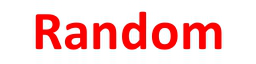
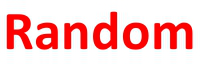
still working on good final design

Changed region(s): [[0.03, 0.1562, 0.99, 0.7812]]

diff --git a/style.css b/style.css
@@ -44,6 +44,8 @@ body
 .logo
 {
 	margin-bottom: -0.5%;
+	margin-top: -1px;
+	margin-left: -1px;
 }
 
 #navigation li
@@ -58,11 +60,12 @@ body
 {
 	padding-top: 1%;
 	padding-bottom: 1%;
-    width: 100%;
+	margin-left: -1px;
+    width: 100% +1px;
     text-align: center;
     font-family: "Calibri","Gabriola","MV Boli", "Segoe Print", "Comic Sans MS";
-    border-bottom: 3px solid #b9dfad;
-    background: #b9dfad;
+    border: 3px solid #4faf4d;
+    background: #67b965; /* saftig, dunkel: 4faf4d */
 }
 
 #navigation a:link, #navigation a:visited
@@ -195,8 +198,9 @@ body
 {
 	text-align: center;
 	font-family: "Calibri","Arial",sans-serif;
-	font-size: 3vw;
+	font-size: 2.5vw;
 	font-weight: bold;
+	margin-top: 1%;
 }
 
 .comic_navigation
@@ -212,22 +216,22 @@ body
 
 .comic_navigation img
 {
-	width: 6%;
+	width: 5%;
 	height: auto;
-	background: #bfe2b8;
+	/*background: #bfe2b8; */
 }
 
-.blank
+.comic_navigation .blank img
 {
-	color: RGBA(0,0,0,1);
-	background: RGBA(0,0,0,1);
+	color: RGBA(0,0,0,0);
+	background: RGBA(0,0,0,0);
 }
 
 
 
 .navRandom img
 {
-	width: 24%;
+	width: 16%;
 	height: auto;
 }
 
@@ -235,8 +239,8 @@ body
 .comic_navigation li
 {
 	display: inline;
-	margin-left: 4%;
-    margin-right: 4%;
+	margin-left: 2%;
+    margin-right: 2%;
 }
 
 
